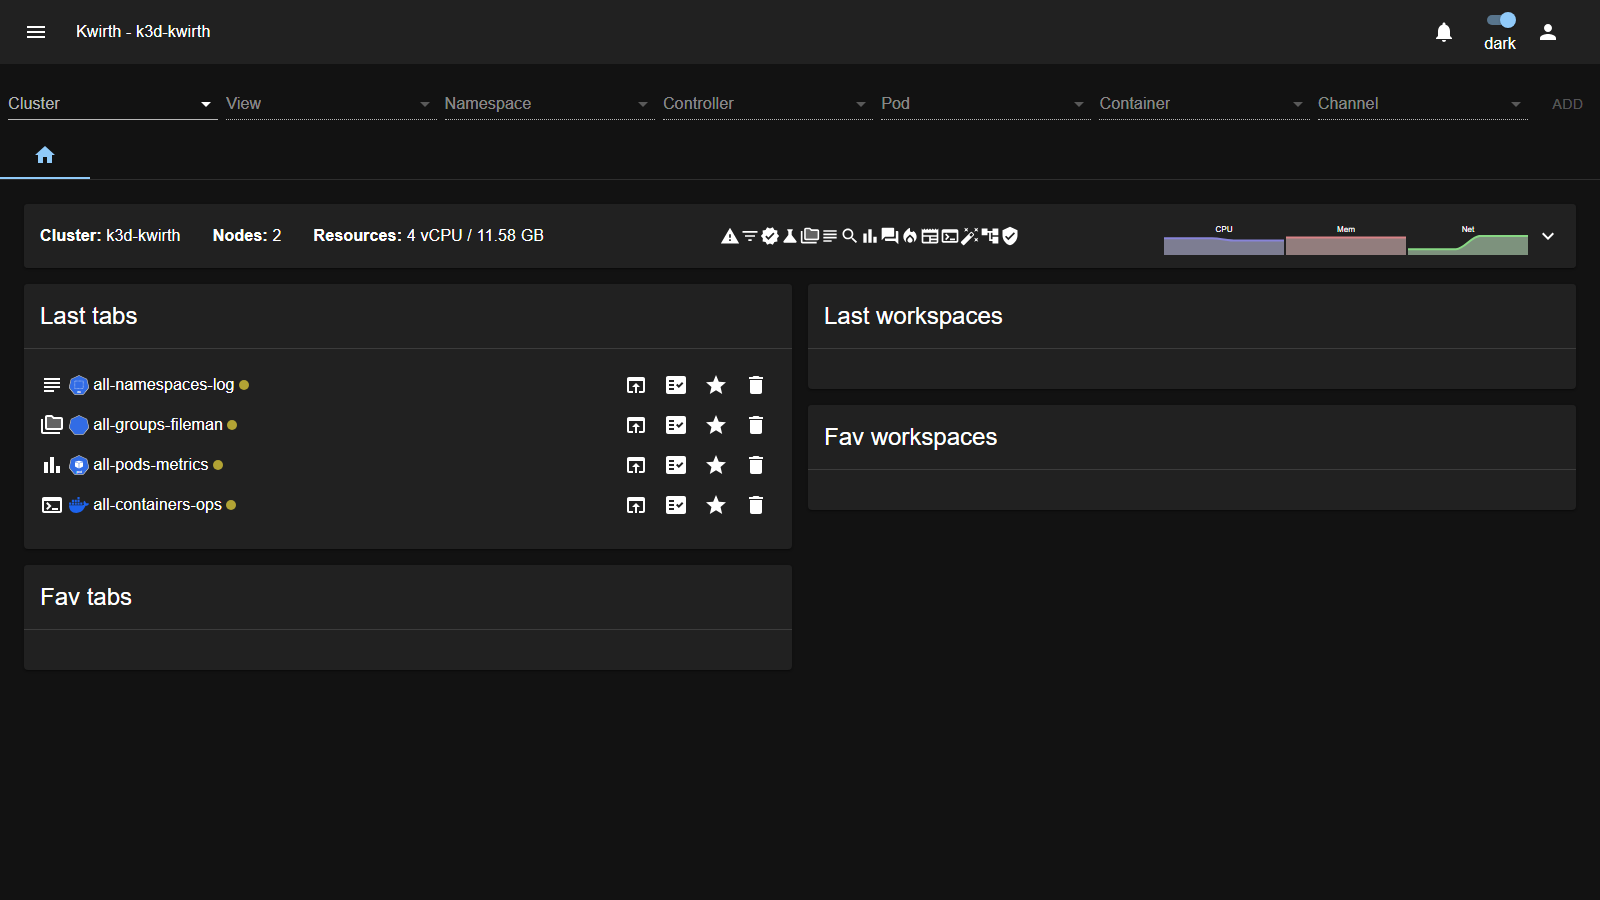
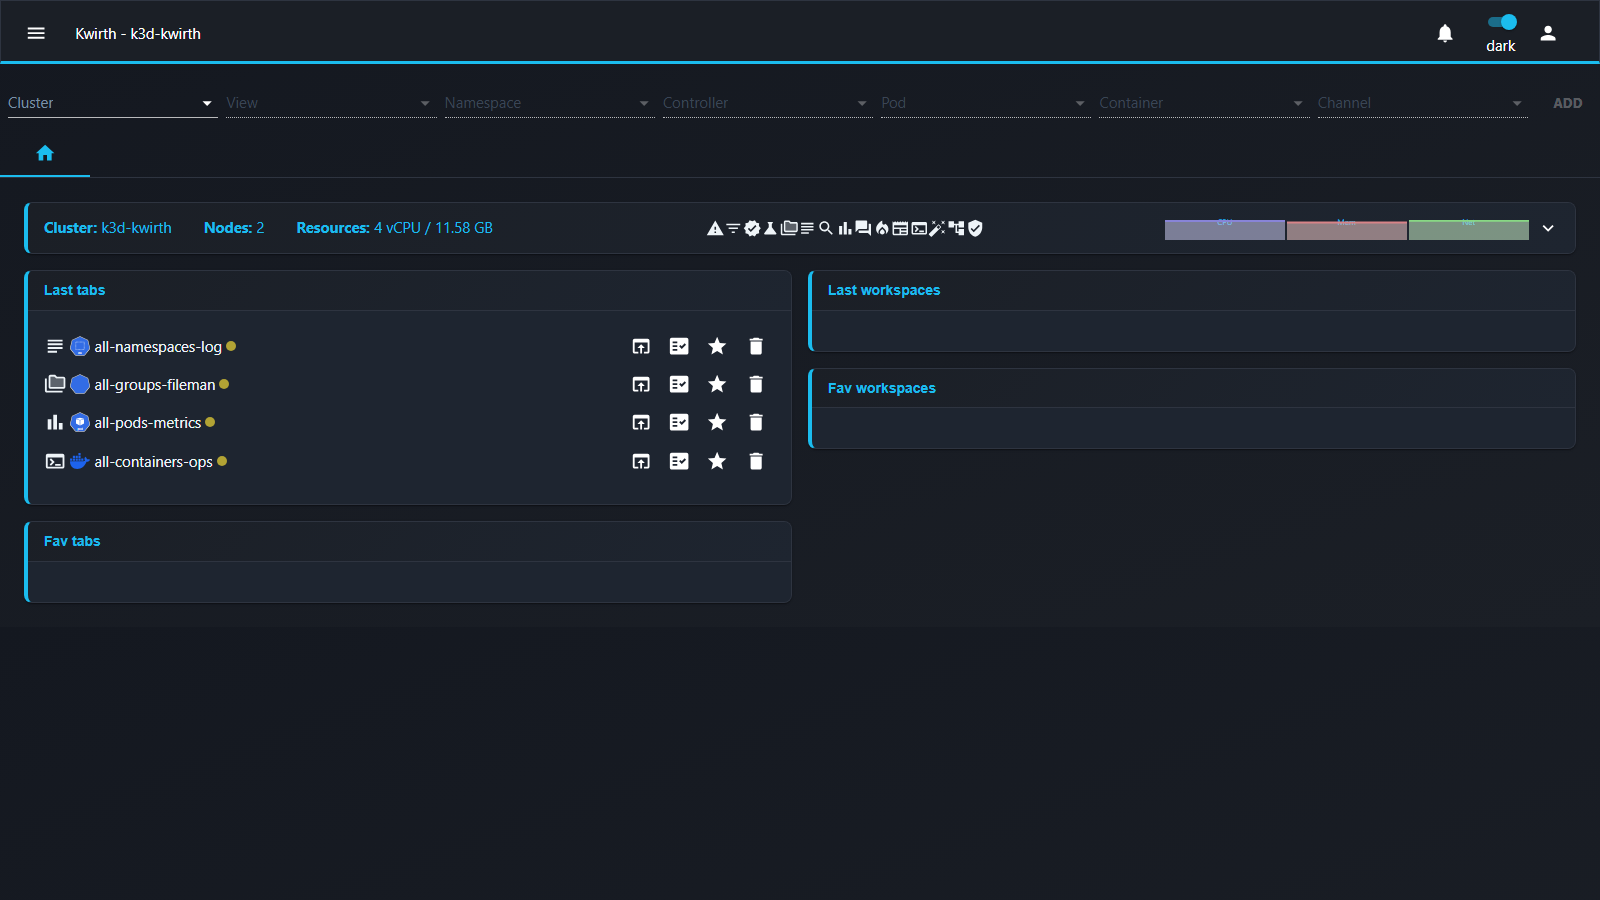
docs(guide): multi-line meta cards for all extension fiches; fix SFY/Matrix theme shots
Extension pages now show meta properties on separate lines (Type/Package/Look/Protocol) like the plugin fiches. Recaptured SFY (sky-blue) and Matrix (with animation settle) theme screenshots.

diff --git a/docs/0.5.187/guide/extensions/idps/index.md b/docs/0.5.187/guide/extensions/idps/index.md
@@ -1,6 +1,7 @@
 # Identity Providers (SSO connectors)
 
-> **Type:** Identity providers · **Managed from:** ☰ → Manage extensions → Identity providers
+> **Type:** Identity providers<br>
+> **Managed from:** ☰ → Manage extensions → Identity providers
 
 ## What an IdP connector is
 

diff --git a/docs/0.5.187/guide/extensions/idps/github-onprem.md b/docs/0.5.187/guide/extensions/idps/github-onprem.md
@@ -1,6 +1,8 @@
 # GitHub Enterprise Server (IdP connector)
 
-> **Type:** Identity provider connector · **Protocol:** OAuth2 · **Provider id:** `github-onprem`
+> **Type:** Identity provider connector<br>
+> **Protocol:** OAuth2<br>
+> **Provider id:** `github-onprem`
 
 ## What it does
 

diff --git a/docs/0.5.187/guide/extensions/idps/gitlab-onprem.md b/docs/0.5.187/guide/extensions/idps/gitlab-onprem.md
@@ -1,6 +1,8 @@
 # GitLab Self-Managed (IdP connector)
 
-> **Type:** Identity provider connector · **Protocol:** OIDC · **Provider id:** `gitlab-onprem`
+> **Type:** Identity provider connector<br>
+> **Protocol:** OIDC<br>
+> **Provider id:** `gitlab-onprem`
 
 ## What it does
 

diff --git a/docs/0.5.187/guide/extensions/idps/github-cloud.md b/docs/0.5.187/guide/extensions/idps/github-cloud.md
@@ -1,6 +1,8 @@
 # GitHub Cloud (IdP connector)
 
-> **Type:** Identity provider connector · **Protocol:** OAuth2 · **Provider id:** `github-cloud`
+> **Type:** Identity provider connector<br>
+> **Protocol:** OAuth2<br>
+> **Provider id:** `github-cloud`
 
 ## What it does
 

diff --git a/docs/0.5.187/guide/extensions/idps/gitlab-cloud.md b/docs/0.5.187/guide/extensions/idps/gitlab-cloud.md
@@ -1,6 +1,8 @@
 # GitLab Cloud (IdP connector)
 
-> **Type:** Identity provider connector · **Protocol:** OIDC · **Provider id:** `gitlab-cloud`
+> **Type:** Identity provider connector<br>
+> **Protocol:** OIDC<br>
+> **Provider id:** `gitlab-cloud`
 
 ## What it does
 

diff --git a/docs/0.5.187/guide/extensions/idps/google.md b/docs/0.5.187/guide/extensions/idps/google.md
@@ -1,6 +1,8 @@
 # Google (IdP connector)
 
-> **Type:** Identity provider connector · **Protocol:** OIDC · **Provider id:** `google`
+> **Type:** Identity provider connector<br>
+> **Protocol:** OIDC<br>
+> **Provider id:** `google`
 
 ## What it does
 

diff --git a/docs/0.5.187/guide/extensions/homepages/index.md b/docs/0.5.187/guide/extensions/homepages/index.md
@@ -1,6 +1,7 @@
 # Homepages (landing dashboards)
 
-> **Type:** Homepages · **Managed from:** ☰ → Manage extensions → Homepages
+> **Type:** Homepages<br>
+> **Managed from:** ☰ → Manage extensions → Homepages
 
 ## What a homepage is
 

diff --git a/docs/0.5.187/guide/extensions/providers/otel.md b/docs/0.5.187/guide/extensions/providers/otel.md
@@ -1,6 +1,7 @@
 # OpenTelemetry (provider)
 
-> **Type:** Provider (installable) · **Package:** `@kwirthmagnify/kwirth-provider-otel`
+> **Type:** Provider (installable)<br>
+> **Package:** `@kwirthmagnify/kwirth-provider-otel`
 
 ## What it does
 

diff --git a/docs/0.5.187/guide/extensions/providers/syslog.md b/docs/0.5.187/guide/extensions/providers/syslog.md
@@ -1,6 +1,7 @@
 # Syslog (provider)
 
-> **Type:** Provider (installable) · **Package:** `@kwirthmagnify/kwirth-provider-syslog`
+> **Type:** Provider (installable)<br>
+> **Package:** `@kwirthmagnify/kwirth-provider-syslog`
 
 ## What it does
 

diff --git a/docs/0.5.187/guide/extensions/providers/index.md b/docs/0.5.187/guide/extensions/providers/index.md
@@ -1,6 +1,7 @@
 # Providers (data sources)
 
-> **Type:** Providers · **Managed from:** ☰ → Manage extensions → Providers
+> **Type:** Providers<br>
+> **Managed from:** ☰ → Manage extensions → Providers
 
 ## What a provider is
 

diff --git a/docs/0.5.187/guide/extensions/providers/kafka.md b/docs/0.5.187/guide/extensions/providers/kafka.md
@@ -1,6 +1,7 @@
 # Kafka (provider)
 
-> **Type:** Provider (installable) · **Package:** `@kwirthmagnify/kwirth-provider-kafka`
+> **Type:** Provider (installable)<br>
+> **Package:** `@kwirthmagnify/kwirth-provider-kafka`
 
 ## What it does
 

diff --git a/docs/0.5.187/guide/extensions/providers/trivy.md b/docs/0.5.187/guide/extensions/providers/trivy.md
@@ -1,6 +1,7 @@
 # Trivy (provider)
 
-> **Type:** Provider (installable) · **Package:** `@kwirthmagnify/kwirth-provider-trivy`
+> **Type:** Provider (installable)<br>
+> **Package:** `@kwirthmagnify/kwirth-provider-trivy`
 
 ## What it does
 
